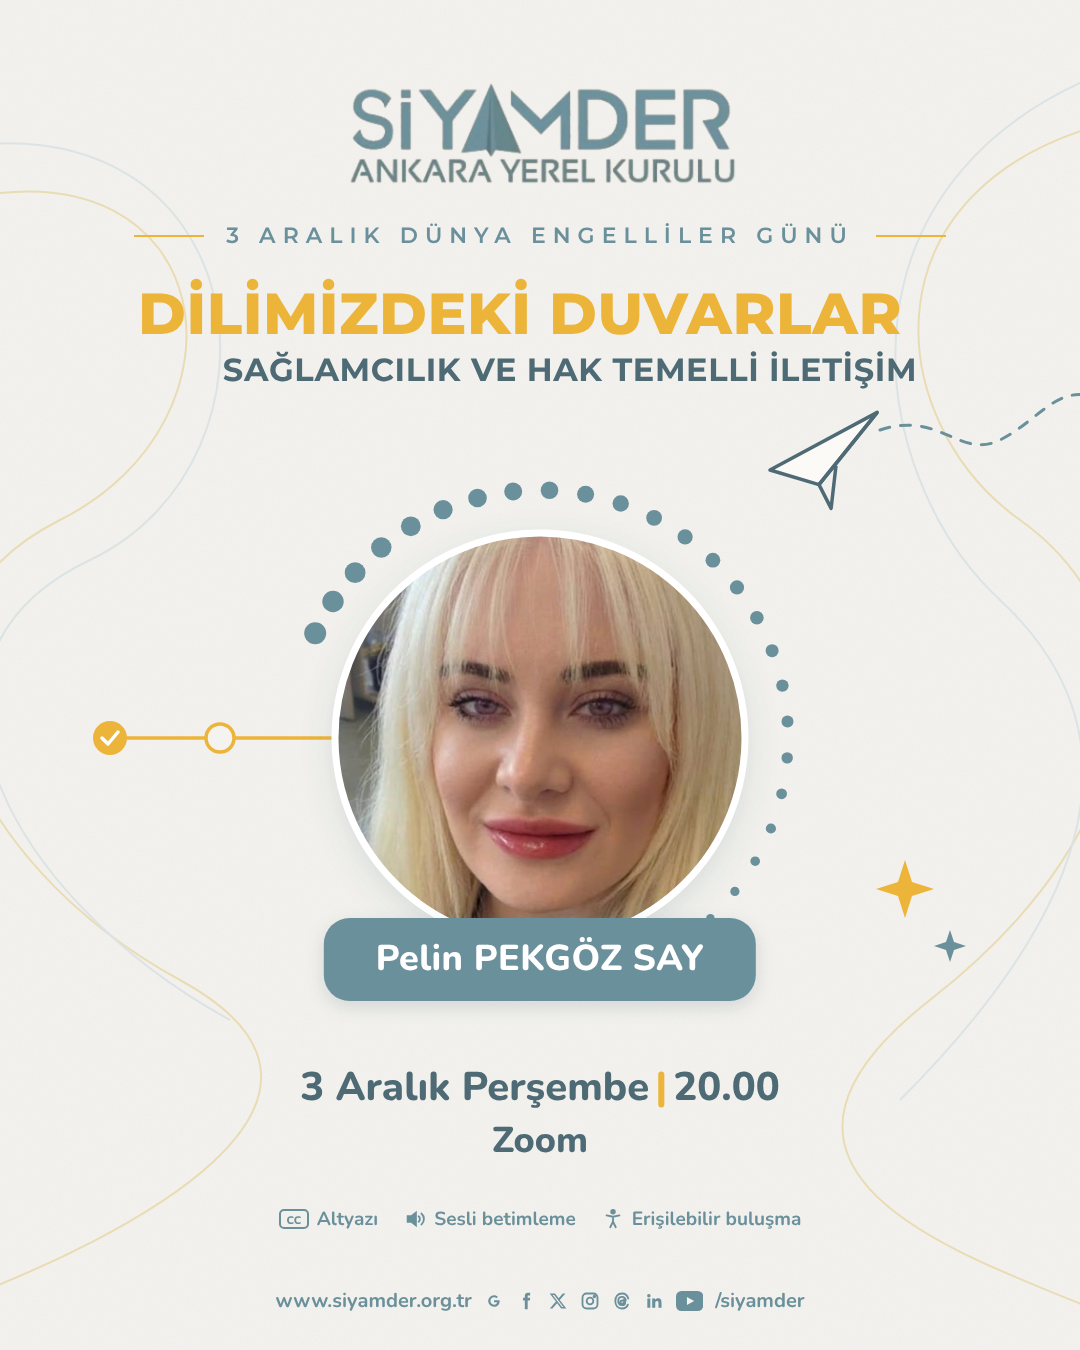
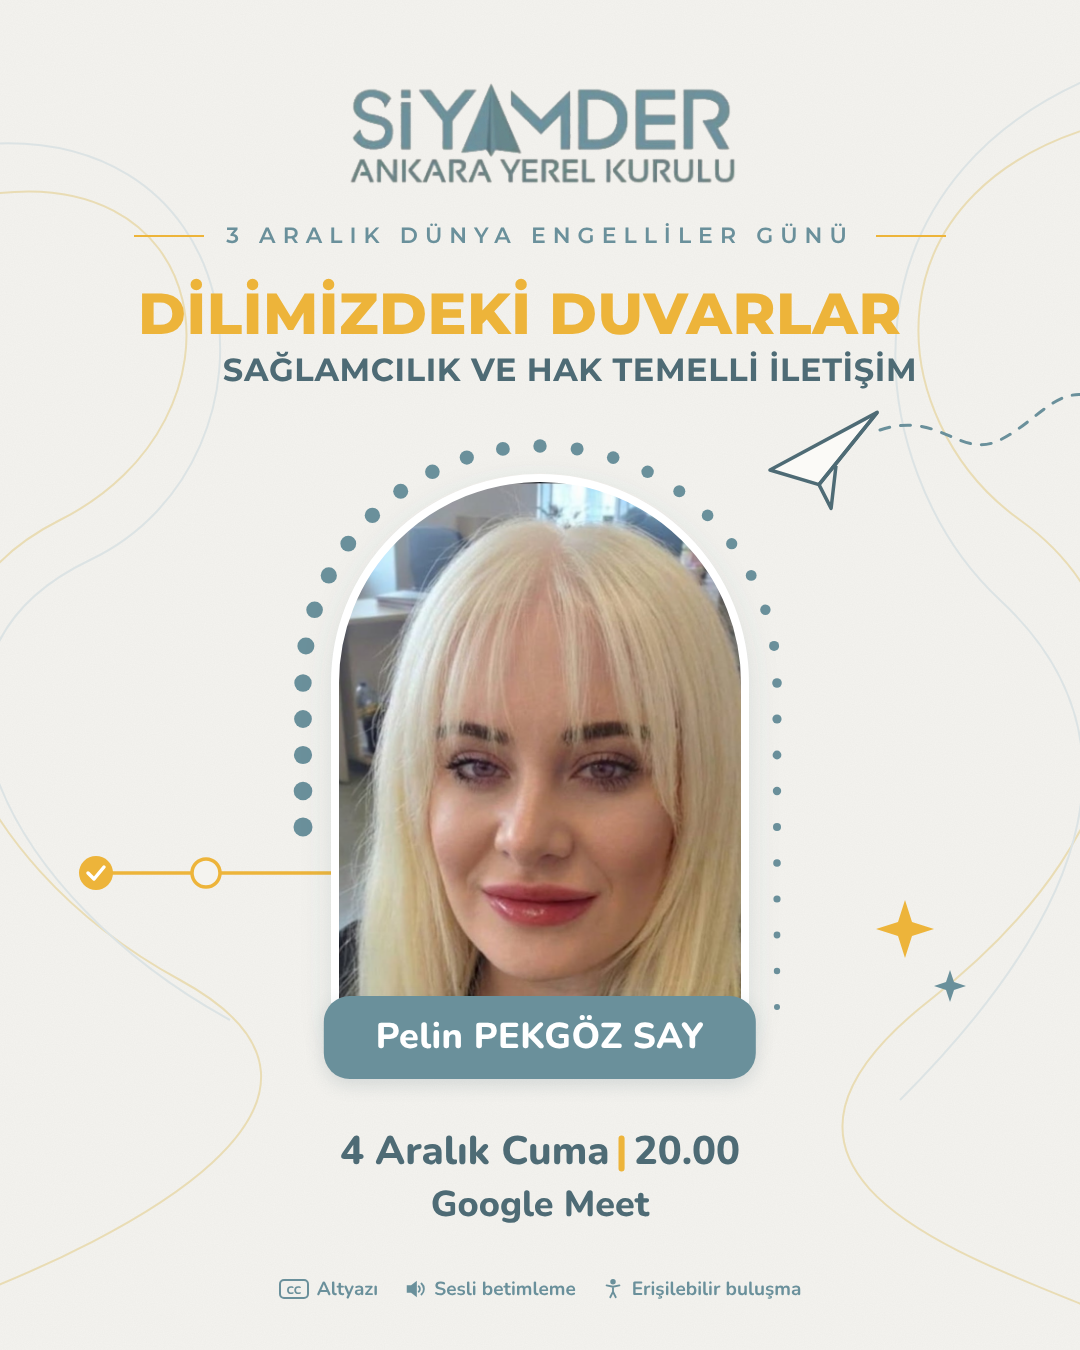
Poster: 4 Aralık Cuma, Google Meet, arch photo frame, footer removed
Claude-Session: https://claude.ai/code/session_012xReo7SfqfS81ih4SjGsQP

diff --git a/afisler/2026-12-03-engelliler-gunu/dilimizdeki-duvarlar.html b/afisler/2026-12-03-engelliler-gunu/dilimizdeki-duvarlar.html
@@ -42,10 +42,10 @@
   .baslik2 .y{font-weight:800;font-size:58px;color:var(--sari);letter-spacing:.01em;transform:translateX(-20px);line-height:1.1}
   .baslik2 .p{font-weight:700;font-size:32px;color:var(--petrol-koyu);letter-spacing:.02em;transform:translateX(30px);margin-top:4px}
   .cember{position:absolute;left:0;top:0}
-  .pill{top:918px;padding:16px 52px 18px}
+  .pill{top:996px;padding:16px 52px 18px}
   .pill b{font-size:36px}
-  .bilgi{top:1060px}
-  .erisim{top:1206px}
+  .bilgi{top:1124px}
+  .erisim{top:1276px}
 </style>
 </head>
 <body>
@@ -55,7 +55,7 @@
       <filter id="doku"><feTurbulence type="fractalNoise" baseFrequency=".9" numOctaves="3" seed="7"/>
         <feColorMatrix values="0 0 0 0 .3  0 0 0 0 .3  0 0 0 0 .28  0 0 0 .06 0"/></filter>
       <filter id="golge" x="-20%" y="-20%" width="140%" height="140%"><feDropShadow dx="0" dy="10" stdDeviation="16" flood-color="#4E6B75" flood-opacity=".18"/></filter>
-      <clipPath id="foto"><circle cx="540" cy="738" r="205"/></clipPath>
+      <clipPath id="foto"><path d="M335 1028 V683 A205 205 0 0 1 745 683 V1028 Z"/></clipPath>
     </defs>
     <rect width="1080" height="1350" filter="url(#doku)"/>
     <g fill="none" stroke-width="2">
@@ -65,26 +65,26 @@
       <path d="M1140 60 C 820 160, 860 470, 1000 600 S 1100 900, 900 1100" stroke="#DCE3E4"/>
     </g>
     <!-- sol: onay işaretli ilerleme çizgisi, çembere bağlanır -->
-    <g transform="translate(110 738)">
-      <line x1="0" y1="0" x2="225" y2="0" stroke="var(--sari)" stroke-width="3.5"/>
+    <g transform="translate(96 873)">
+      <line x1="0" y1="0" x2="239" y2="0" stroke="var(--sari)" stroke-width="3.5"/>
       <circle cx="0" cy="0" r="17" fill="var(--sari)"/>
       <path d="M-8 0 l6 6 10 -12" stroke="#fff" stroke-width="3.5" fill="none" stroke-linecap="round" stroke-linejoin="round"/>
       <circle cx="110" cy="0" r="14" fill="var(--zemin)" stroke="var(--sari)" stroke-width="3.5"/>
     </g>
-    <!-- noktalı yay -->
-    <g fill="var(--petrol)"><circle cx="315.2" cy="633.2" r="11.0"/><circle cx="333.0" cy="601.5" r="10.7"/><circle cx="355.1" cy="572.7" r="10.4"/><circle cx="381.3" cy="547.5" r="10.2"/><circle cx="410.8" cy="526.3" r="9.9"/><circle cx="443.1" cy="509.7" r="9.6"/><circle cx="477.5" cy="498.0" r="9.3"/><circle cx="513.2" cy="491.5" r="9.0"/><circle cx="549.5" cy="490.2" r="8.8"/><circle cx="585.6" cy="494.2" r="8.5"/><circle cx="620.7" cy="503.5" r="8.2"/><circle cx="654.1" cy="517.8" r="7.9"/><circle cx="685.1" cy="536.9" r="7.6"/><circle cx="712.9" cy="560.2" r="7.4"/><circle cx="737.0" cy="587.4" r="7.1"/><circle cx="756.9" cy="617.8" r="6.8"/><circle cx="772.1" cy="650.7" r="6.5"/><circle cx="782.4" cy="685.6" r="6.2"/><circle cx="787.5" cy="721.6" r="6.0"/><circle cx="787.2" cy="757.9" r="5.7"/><circle cx="781.6" cy="793.8" r="5.4"/><circle cx="770.9" cy="828.5" r="5.1"/><circle cx="755.2" cy="861.2" r="4.8"/><circle cx="734.9" cy="891.4" r="4.6"/><circle cx="710.4" cy="918.2" r="4.3"/><circle cx="682.2" cy="941.1" r="4.0"/></g>
-    <!-- fotoğraf çemberi (konuk belli olunca fotoğraf buraya) -->
-    <circle cx="540" cy="738" r="205" fill="#fff" filter="url(#golge)"/>
-    <image href="konuk-pelin.jpg" x="335" y="533" width="410" height="410" clip-path="url(#foto)" preserveAspectRatio="xMidYMid slice"/>
-    <circle cx="540" cy="738" r="205" fill="none" stroke="#fff" stroke-width="7"/>
+    <!-- noktalı yay (kemer çerçeveyi izler) -->
+    <g fill="var(--petrol)"><circle cx="303.0" cy="827.0" r="9.5"/><circle cx="303.0" cy="791.0" r="9.3"/><circle cx="303.0" cy="755.0" r="9.1"/><circle cx="303.0" cy="719.0" r="8.9"/><circle cx="303.0" cy="683.0" r="8.7"/><circle cx="305.9" cy="645.9" r="8.5"/><circle cx="314.6" cy="609.8" r="8.3"/><circle cx="328.8" cy="575.4" r="8.1"/><circle cx="348.3" cy="543.7" r="7.9"/><circle cx="372.4" cy="515.4" r="7.7"/><circle cx="400.7" cy="491.3" r="7.5"/><circle cx="432.4" cy="471.8" r="7.3"/><circle cx="466.8" cy="457.6" r="7.1"/><circle cx="502.9" cy="448.9" r="6.9"/><circle cx="540.0" cy="446.0" r="6.7"/><circle cx="577.1" cy="448.9" r="6.5"/><circle cx="613.2" cy="457.6" r="6.3"/><circle cx="647.6" cy="471.8" r="6.2"/><circle cx="679.3" cy="491.3" r="6.0"/><circle cx="707.6" cy="515.4" r="5.8"/><circle cx="731.7" cy="543.7" r="5.6"/><circle cx="751.2" cy="575.4" r="5.4"/><circle cx="765.4" cy="609.8" r="5.2"/><circle cx="774.1" cy="645.9" r="5.0"/><circle cx="777.0" cy="683.0" r="4.8"/><circle cx="777.0" cy="719.0" r="4.6"/><circle cx="777.0" cy="755.0" r="4.4"/><circle cx="777.0" cy="791.0" r="4.2"/><circle cx="777.0" cy="827.0" r="4.0"/><circle cx="777.0" cy="863.0" r="3.8"/><circle cx="777.0" cy="899.0" r="3.6"/><circle cx="777.0" cy="935.0" r="3.4"/><circle cx="777.0" cy="971.0" r="3.2"/><circle cx="777.0" cy="1007.0" r="3.0"/></g>
+    <!-- kemer fotoğraf çerçevesi -->
+    <path d="M335 1028 V683 A205 205 0 0 1 745 683 V1028 Z" fill="#fff" filter="url(#golge)"/>
+    <image href="konuk-pelin-genis.jpg" x="335" y="478" width="410" height="550" clip-path="url(#foto)" preserveAspectRatio="xMidYMin slice"/>
+    <path d="M335 1028 V683 A205 205 0 0 1 745 683 V1028 Z" fill="none" stroke="#fff" stroke-width="8"/>
     <!-- sağ: kâğıt uçak + kesik rota -->
     <path d="M880 430 C 940 410, 960 460, 1000 440 S 1060 380, 1100 400" fill="none" stroke="var(--petrol)" stroke-width="3" stroke-dasharray="10 11" stroke-linecap="round"/>
     <g transform="translate(770 470) rotate(-14)" fill="none" stroke="var(--petrol-koyu)" stroke-width="3.5" stroke-linejoin="round">
       <path d="M0 0 L118 -30 L44 26 Z" fill="#FBFAF7"/><path d="M44 26 L50 52 L65 12"/><path d="M118 -30 L44 26"/>
     </g>
     <!-- pırıltılar -->
-    <path d="M905 860 l7 22 22 7 -22 7 -7 22 -7 -22 -22 -7 22 -7z" fill="var(--sari)"/>
-    <path d="M950 930 l4 12 12 4 -12 4 -4 12 -4 -12 -12 -4 12 -4z" fill="var(--petrol)"/>
+    <path d="M905 900 l7 22 22 7 -22 7 -7 22 -7 -22 -22 -7 22 -7z" fill="var(--sari)"/>
+    <path d="M950 970 l4 12 12 4 -12 4 -4 12 -4 -12 -12 -4 12 -4z" fill="var(--petrol)"/>
   </svg>
 
   <img class="logo" src="siyamder-ankara-logo.png" alt="SİYAMDER Ankara Yerel Kurulu">
@@ -97,8 +97,8 @@
   <div class="pill"><b>Pelin PEKGÖZ SAY</b></div>
 
   <div class="bilgi">
-    <div class="t">3 Aralık Perşembe<em>|</em>20.00</div>
-    <div class="p">Zoom</div>
+    <div class="t">4 Aralık Cuma<em>|</em>20.00</div>
+    <div class="p">Google Meet</div>
   </div>
 
   <div class="erisim">
@@ -107,17 +107,6 @@
     <span><svg width="22" height="22" viewBox="0 0 24 24" fill="none" stroke="currentColor" stroke-width="2" stroke-linecap="round"><circle cx="12" cy="4" r="2" fill="currentColor"/><path d="M5 8l7 1.5L19 8M12 9.5V15l-3 6M12 15l3 6"/></svg>Erişilebilir buluşma</span>
   </div>
 
-  <div class="footer">
-    <span>www.siyamder.org.tr</span>
-    <svg viewBox="0 0 24 24"><path fill="currentColor" d="M12 11v2.4h3.9c-.2 1-1.3 3-3.9 3-2.4 0-4.3-2-4.3-4.4S9.6 7.6 12 7.6c1.3 0 2.3.6 2.8 1l1.9-1.8C15.5 5.7 13.9 5 12 5a7 7 0 1 0 0 14c4 0 6.7-2.8 6.7-6.8l-.1-1.2z"/></svg>
-    <svg viewBox="0 0 24 24"><path fill="currentColor" d="M14 8V6.5c0-.7.2-1 1.1-1H17V2h-2.8C11.6 2 10.6 3.5 10.6 6v2H8.5v3.4h2.1V22H14V11.4h2.6l.4-3.4z"/></svg>
-    <svg viewBox="0 0 24 24"><path fill="currentColor" d="M17.8 3h3.1l-6.8 7.8L22 21h-6.2l-4.9-6.4L5.3 21H2.2l7.3-8.3L2 3h6.4l4.4 5.8zm-1.1 16.2h1.7L7.4 4.7H5.5z"/></svg>
-    <svg viewBox="0 0 24 24" fill="none" stroke="currentColor" stroke-width="2.2"><rect x="3" y="3" width="18" height="18" rx="5"/><circle cx="12" cy="12" r="4"/><circle cx="17.3" cy="6.7" r="1" fill="currentColor"/></svg>
-    <svg viewBox="0 0 24 24" fill="none" stroke="currentColor" stroke-width="2.2" stroke-linecap="round"><path d="M16.5 11.5c-.3-3-2-4.5-4.5-4.5-2.8 0-4.5 2.2-4.5 5s1.7 5 4.5 5c2.4 0 3.8-1.3 3.8-3s-1.4-2.6-3.2-2.6c-1.6 0-2.6.9-2.6 2 0 1 .8 1.7 2 1.7 2.6 0 3.6-2.8 2.6-5.5"/><path d="M19.5 9C18.4 4.9 15.6 3 12 3 7 3 4 6.6 4 12s3 9 8 9c3.4 0 6-1.7 7-4.6"/></svg>
-    <svg viewBox="0 0 24 24"><path fill="currentColor" d="M4 9h3.6v11H4zM5.8 3.5a2.1 2.1 0 1 1 0 4.2 2.1 2.1 0 0 1 0-4.2M9.8 9h3.4v1.5c.5-.9 1.7-1.8 3.5-1.8 3.7 0 4.3 2.4 4.3 5.5V20h-3.6v-5.2c0-1.3 0-2.9-1.8-2.9s-2.1 1.4-2.1 2.8V20H9.8z"/></svg>
-    <svg viewBox="0 0 30 22"><rect width="30" height="22" rx="6" fill="currentColor"/><path d="M12 6.5v9l8-4.5z" fill="var(--zemin)"/></svg>
-    <span>/siyamder</span>
-  </div>
 
 </div>
 </body>
